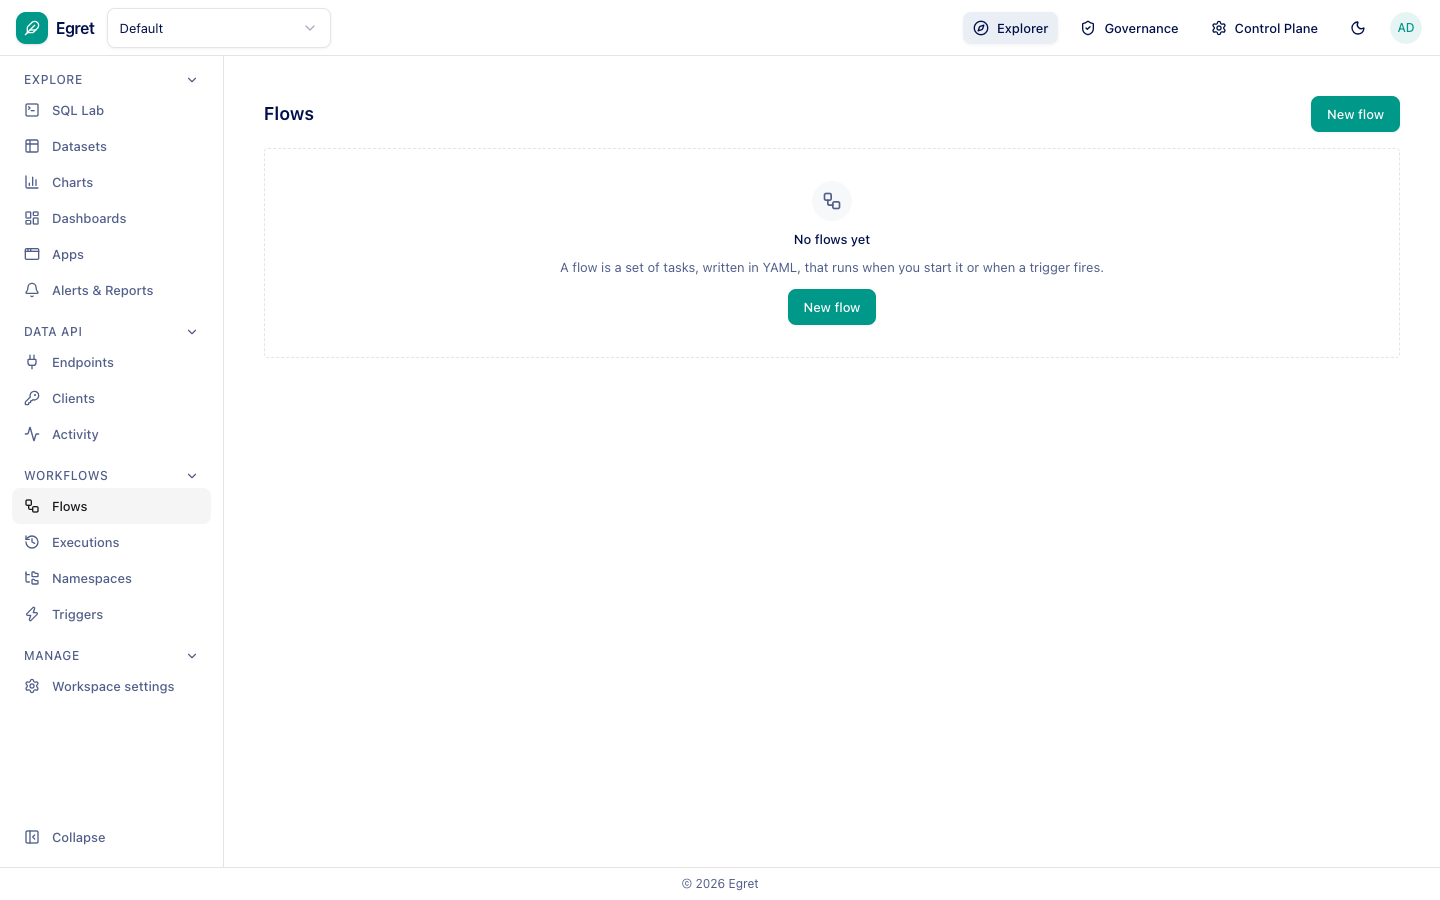
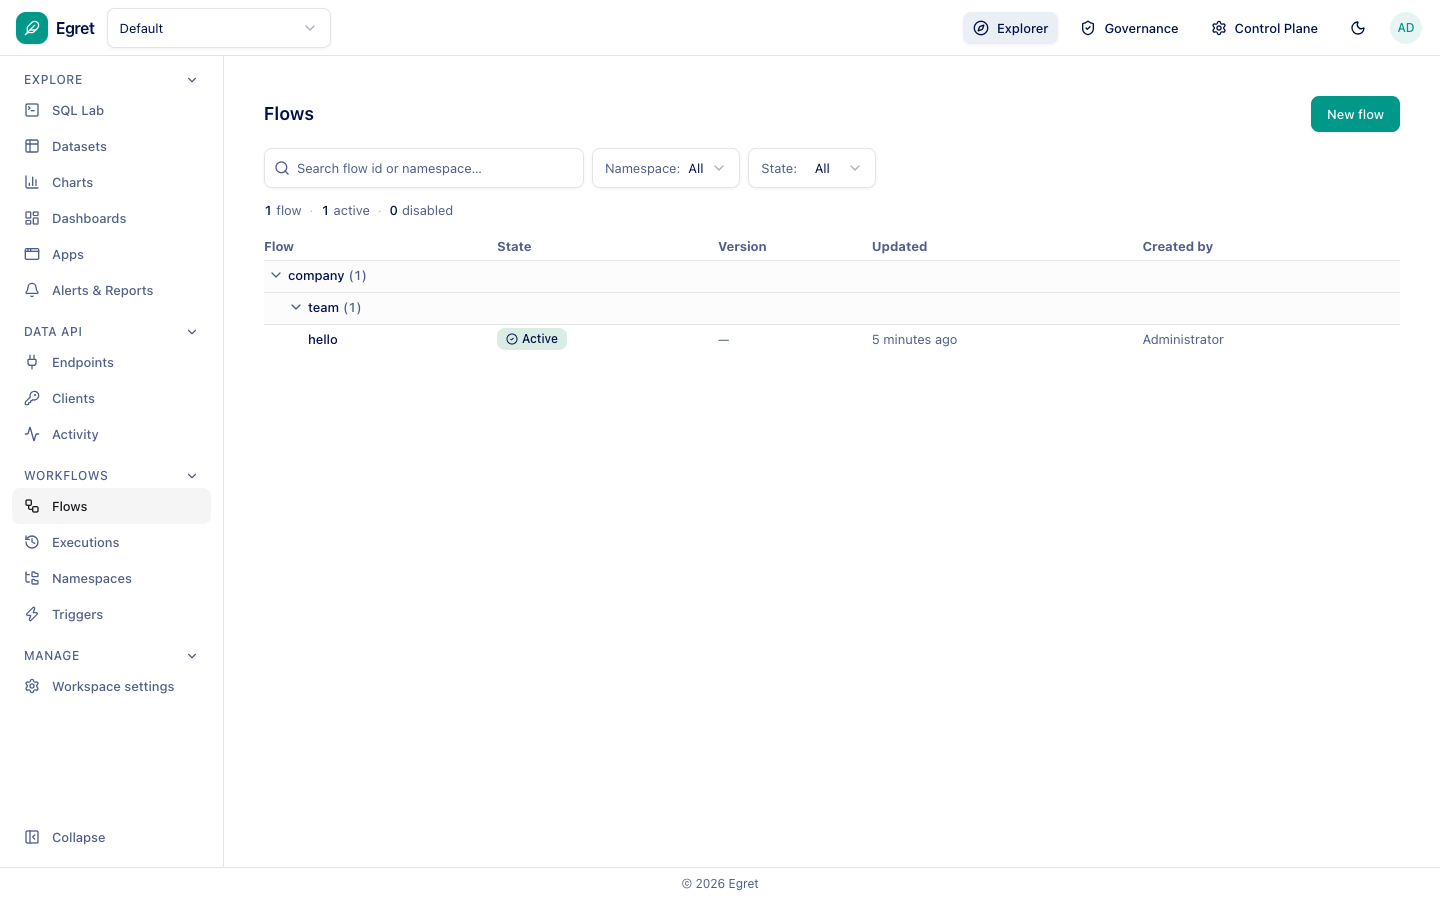
docs: Workspace settings, Data API and Workflows pages (batch 2); more known issues

diff --git a/platform/workflows/flows.md b/platform/workflows/flows.md
@@ -4,8 +4,35 @@ sidebar_position: 1
 
 # Flows
 
-Author and run flows.
+A flow is a set of tasks written in YAML. It runs when you start it or when a trigger fires.
 
-:::note Draft
-This page is a skeleton and will be written against a running instance, with screenshots.
+![Flows](/img/platform/workflows-flows.png)
+
+:::warning The workflow worker is off by default
+The platform only queues executions until the worker is enabled with `EGRET_WORKFLOW__WORKER_ENABLED=true`
+(and `EGRET_WORKFLOW__SCHEDULER_ENABLED=true` for triggers). With the worker off, **Run** succeeds but the execution waits in *Running*
+until a worker starts. Only the Triggers page warns about this today.
 :::
+
+## Create a flow
+
+Press **New flow**. The editor opens with a starter flow and a **Docs** panel generated from the flow schema.
+
+![The flow editor](/img/platform/workflows-flow-new.png)
+
+```yaml
+id: hello
+namespace: company.team
+tasks:
+  - id: hello
+    type: io.kestra.plugin.core.log.Log
+    message: Hello from egret
+```
+
+The flow's namespace and id come from its `namespace:` and `id:` keys. **Save** creates it. Saving a flow that already exists is rejected with *a flow already exists at company.team/hello in this workspace*.
+
+## A flow's page
+
+![A flow](/img/platform/workflows-flow-detail.png)
+
+A flow has **Edit**, **Revisions**, **Executions** and **Triggers** tabs. **Save** stores the draft, **Create version** publishes a version and **Run** starts an execution of the saved draft. Flows with inputs ask for them before running.

diff --git a/platform/known-issues.md b/platform/known-issues.md
@@ -23,3 +23,6 @@ and missing pieces. Entries are **recorded, not fixed**; they feed the product r
 | KI-009 | Charts API | Docs | S3 | Creating a chart through the API requires `params.version = 2` and a `settings` object; the axis mapping lives in `settings`, not in `spec.dimensions`. Charts created with only `spec` load with the X-axis empty. Document the payload. |
 | KI-010 | Dashboards | Docs | S3 | The dashboard grid is 24 columns wide; this is not stated anywhere in the UI or API reference. |
 | KI-011 | Databases | UX | S3 | A newly created connection shows status *Unknown* until **Test** is pressed, even though creation already validated reachability. |
+| KI-012 | Workspace settings | UX | S3 | The Notifications page does not follow the layout of the other settings tabs: the heading is offset, and Encryption is an unstyled native select. |
+| KI-013 | Workflows | UX | S1 | With the default config the workflow worker is **off**. *Run* succeeds and the execution sits in *Running* indefinitely (one waited 53 s until the worker was enabled). Only the Triggers page warns; Run, Flow and Executions give no hint. |
+| KI-014 | Workflows | UX | S3 | A new flow shows *Version —* in its header, and *Run* says it runs "the saved draft"; it is unclear what a version is until **Create version** is pressed. |

diff --git a/platform/workspace-settings/notifications.md b/platform/workspace-settings/notifications.md
@@ -4,8 +4,21 @@ sidebar_position: 7
 
 # Notifications
 
-Notification channels and preferences.
+**Workspace settings → Notifications** configures how alerts and reports leave the platform. Each workspace has its own identity, so two teams never share a sending address or reputation.
 
-:::note Draft
-This page is a skeleton and will be written against a running instance, with screenshots.
-:::
+![Notification settings](/img/platform/settings-notifications.png)
+
+## Email (SMTP)
+
+| Field | Meaning |
+|---|---|
+| **SMTP host**, **Port** | The mail relay. |
+| **Encryption** | Chosen explicitly (for example *STARTTLS, usually port 587*) rather than guessed from the port, because guessing wrong can send credentials in the clear. |
+| **Username**, **Password** | Relay credentials. |
+| **From address**, **From name** | The sender shown on messages. |
+
+Press **Save**, then **Send test message**. A test message is the only way to tell *configured* from *configured correctly* before an alert needs to fire.
+
+## Slack
+
+One bot app per workspace. Enter the **Bot token** and a **Default channel**. A schedule's Slack destination names a channel; the credential lives here.

diff --git a/platform/data-api/endpoints.md b/platform/data-api/endpoints.md
@@ -4,8 +4,23 @@ sidebar_position: 2
 
 # Endpoints
 
-Create, test and publish endpoints.
+![The endpoints list](/img/platform/data-api-endpoints.png)
 
-:::note Draft
-This page is a skeleton and will be written against a running instance, with screenshots.
-:::
+The list shows every endpoint in the workspace. **Download OpenAPI** exports an OpenAPI description of the published endpoints, and **+ Endpoint** creates one.
+
+## Create an endpoint
+
+![New endpoint](/img/platform/data-api-endpoint-new.png)
+
+A new endpoint needs only a few fields. Everything else (parameters, output shape, cache, limits) is configured on the endpoint once it exists.
+
+| Field | Meaning |
+|---|---|
+| **Name** | A label, for example *Daily report*. |
+| **Path** | The URL path, for example `reports/daily`. |
+| **Description** | Optional: what it returns and who it is for. |
+| **Method** | The HTTP method, `GET` by default. |
+| **Database** | The [database connection](../workspace-settings/databases) the query runs on. |
+| **SQL** | The query to publish. |
+
+Press **Create endpoint** when the form is complete.

diff --git a/platform/workspace-settings/members.md b/platform/workspace-settings/members.md
@@ -4,8 +4,14 @@ sidebar_position: 2
 
 # Members
 
-Who belongs to the workspace.
+**Workspace settings → Members** lists the people and groups that can use the workspace.
 
-:::note Draft
-This page is a skeleton and will be written against a running instance, with screenshots.
-:::
+![Workspace members](/img/platform/settings-members.png)
+
+The summary line counts members, admins, people and groups. For each member the table shows the **Type** (*User* or *Group*), the workspace **Role**, who added them and when. People who are platform administrators carry a *platform admin* tag.
+
+- **Add member** adds a person or a group with a role.
+- **Bulk select** lets you act on several members at once.
+- The **⋯** menu on a row edits or removes that member.
+
+Workspace roles apply only inside this workspace. See [Roles & permissions](./roles-and-permissions) for what each role grants. Platform-wide access is managed separately under [Control Plane → Access control](../control-plane/access-control).

diff --git a/platform/workflows/executions.md b/platform/workflows/executions.md
@@ -4,8 +4,16 @@ sidebar_position: 2
 
 # Executions
 
-Inspect runs, logs and outputs.
+An execution appears each time a flow runs: from its **Run** button, a schedule, a webhook or another flow.
 
-:::note Draft
-This page is a skeleton and will be written against a running instance, with screenshots.
-:::
+![Executions](/img/platform/workflows-executions.png)
+
+Filter by **State**, **Namespace**, **Flow** and **Time**, and toggle **Show child executions**. The header counts executions by state.
+
+## An execution
+
+Open an execution to see tabs for **Overview**, **Topology**, **Gantt**, **Logs** and **Outputs**. **Replay** re-runs a finished execution; **Kill** stops one that is running.
+
+![Execution logs](/img/platform/workflows-execution-logs.png)
+
+The **Logs** tab groups log lines by task and can be filtered by level, task and task run, and downloaded.

diff --git a/platform/data-api/clients.md b/platform/data-api/clients.md
@@ -4,8 +4,14 @@ sidebar_position: 3
 
 # Clients
 
-Clients, tokens and access.
+A **service account** is a machine identity for the Data API. It holds the **OAuth2 clients** that call your endpoints. Each client is one credential: revoke it and the consumer using it stops minting tokens.
 
-:::note Draft
-This page is a skeleton and will be written against a running instance, with screenshots.
-:::
+![Clients](/img/platform/data-api-clients.png)
+
+## Create a service account
+
+Press **+ Service account**.
+
+![New service account](/img/platform/data-api-client-new.png)
+
+Give it a **Name** (its email address is derived from the name by the backend and shown on its row) and an optional **Description**. After it exists, issue OAuth2 clients from the Clients list, then grant the account permission to invoke each endpoint on that endpoint's **Access** tab.

diff --git a/platform/workspace-settings/roles-and-permissions.md b/platform/workspace-settings/roles-and-permissions.md
@@ -4,8 +4,20 @@ sidebar_position: 3
 
 # Roles & permissions
 
-Workspace roles and what they allow.
+**Workspace settings → Roles & permissions** shows what each workspace role can do.
 
-:::note Draft
-This page is a skeleton and will be written against a running instance, with screenshots.
+![Workspace roles](/img/platform/settings-roles.png)
+
+A fresh platform has three built-in roles:
+
+| Role | Permissions |
+|---|---|
+| `ws_admin` | 25 |
+| `ws_editor` | 17 |
+| `ws_viewer` | 7 |
+
+Expand a role to see its permissions. Use **Search roles or permissions…** to find a role by what it grants, and **Hide empty roles** to hide roles with no permissions.
+
+:::note Read-only here
+Roles are defined platform-wide in [Control Plane → Access control](../control-plane/access-control) and apply to every workspace. This page is a read-only view.
 :::

diff --git a/platform/data-api/overview.md b/platform/data-api/overview.md
@@ -4,8 +4,14 @@ sidebar_position: 1
 
 # Overview
 
-Turn a parameterised SELECT into a REST endpoint.
+The Data API turns a query into a REST endpoint. You write SQL, publish it, and consumers call it over HTTP with an OAuth2 token.
 
-:::note Draft
-This page is a skeleton and will be written against a running instance, with screenshots.
-:::
+The pieces, all under **Data API** in the sidebar:
+
+| Page | Purpose |
+|---|---|
+| [Endpoints](./endpoints) | Publish a query as a REST endpoint. |
+| [Clients](./clients) | Service accounts and the OAuth2 clients that call endpoints. |
+| [Activity](./activity) | Call history for the workspace's endpoints. |
+
+Access is granted per endpoint: create a service account, issue it a client, then grant that account permission to invoke each endpoint.

diff --git a/platform/workspace-settings/general.md b/platform/workspace-settings/general.md
@@ -4,8 +4,15 @@ sidebar_position: 1
 
 # General
 
-Workspace name, slug and defaults.
+**Manage → Workspace settings → General** shows the workspace's identity.
 
-:::note Draft
-This page is a skeleton and will be written against a running instance, with screenshots.
-:::
+![Workspace general settings](/img/platform/settings-general.png)
+
+| Field | Meaning |
+|---|---|
+| **Name** | The display name, shown in the workspace picker. |
+| **Slug** | The short identifier used in URLs and the API, for example `default`. |
+| **Workspace ID** | The immutable UUID. |
+
+This page is **read-only**. Renaming or deleting a workspace is a platform-admin action in the
+[Control Plane](../control-plane/workspaces), so a change cannot be made by accident from inside the workspace.

diff --git a/platform/workflows/triggers.md b/platform/workflows/triggers.md
@@ -4,8 +4,12 @@ sidebar_position: 4
 
 # Triggers
 
-Schedules and event triggers.
+A trigger starts a flow on a schedule or an event. It is declared under `triggers:` in the flow's YAML and then appears here.
 
-:::note Draft
-This page is a skeleton and will be written against a running instance, with screenshots.
+![Triggers](/img/platform/workflows-triggers.png)
+
+Search by trigger id, flow or namespace, and filter by **Namespace**, **Flow**, **Kind**, **Backfill** and **State**.
+
+:::warning
+When the worker is off the page shows *The worker is off, so triggered executions are created but do not run.* See [Flows](./flows) for how to enable it.
 :::

diff --git a/platform/data-api/activity.md b/platform/data-api/activity.md
@@ -4,8 +4,8 @@ sidebar_position: 4
 
 # Activity
 
-Request history and monitoring.
+**Activity** shows the calls made to this workspace's endpoints.
 
-:::note Draft
-This page is a skeleton and will be written against a running instance, with screenshots.
-:::
+![Activity](/img/platform/data-api-activity.png)
+
+Choose a range with **1h**, **24h**, **7d** or **30d**; call data is kept for 90 days. **Include trial runs** also counts calls made from the endpoint editor's try-it panel, which are excluded by default.
